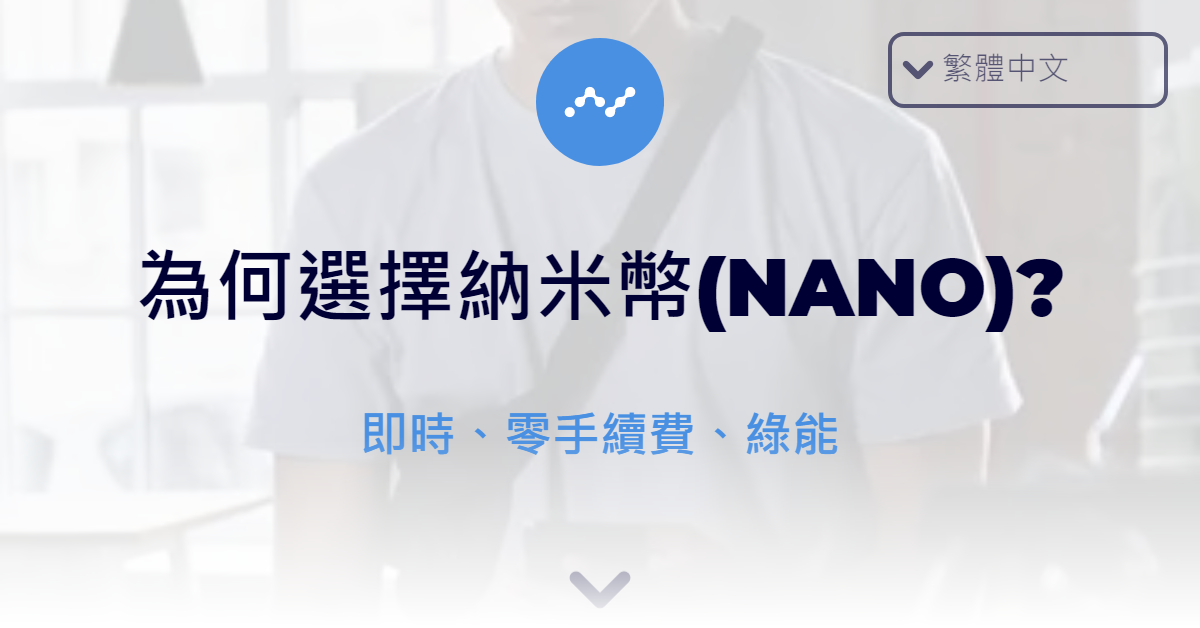
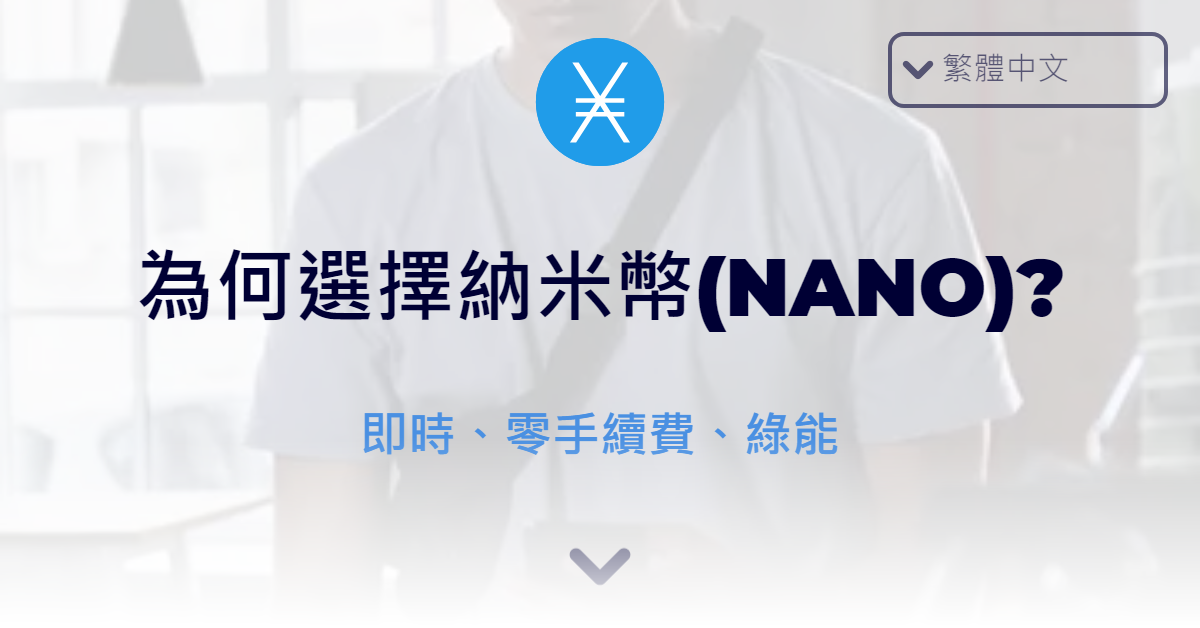
update to new symbol

Changed region(s): [[0.4317, 0.0605, 0.555, 0.2723], [0.4625, 0.8774, 0.5242, 0.9682]]

diff --git a/client/index.html b/client/index.html
@@ -8,10 +8,14 @@
   <title>Why Nano?</title>
   <link rel="stylesheet" href="static/css/main.css">
   <script defer src="static/js/main.js"></script>
-  <link rel="apple-touch-icon" sizes="180x180" href="/apple-touch-icon.png">
-  <link rel="icon" type="image/png" sizes="32x32" href="/favicon-32x32.png">
-  <link rel="icon" type="image/png" sizes="16x16" href="/favicon-16x16.png">
-  <link rel="manifest" href="/site.webmanifest">
+  <link rel="apple-touch-icon" sizes="180x180" href="/static/ico/apple-touch-icon.png">
+  <link rel="icon" type="image/png" sizes="32x32" href="/static/ico/favicon-32x32.png">
+  <link rel="icon" type="image/png" sizes="16x16" href="/static/ico/favicon-16x16.png">
+  <link rel="manifest" href="/static/ico/site.webmanifest">
+  <link rel="mask-icon" href="/static/ico/safari-pinned-tab.svg" color="#209ce9">
+  <link rel="shortcut icon" href="/static/ico/favicon.ico">
+  <meta name="msapplication-TileColor" content="#209ce9">
+  <meta name="msapplication-config" content="/static/ico/browserconfig.xml">
   <meta property="og:title" content="Why Nano?">
   <meta property="og:description" content="Nano is a instant, feeless and eco-friendly digital currency for everyday transactions.">
   <meta property="og:image" content="https://whynano.cc/static/img/preview.png">
